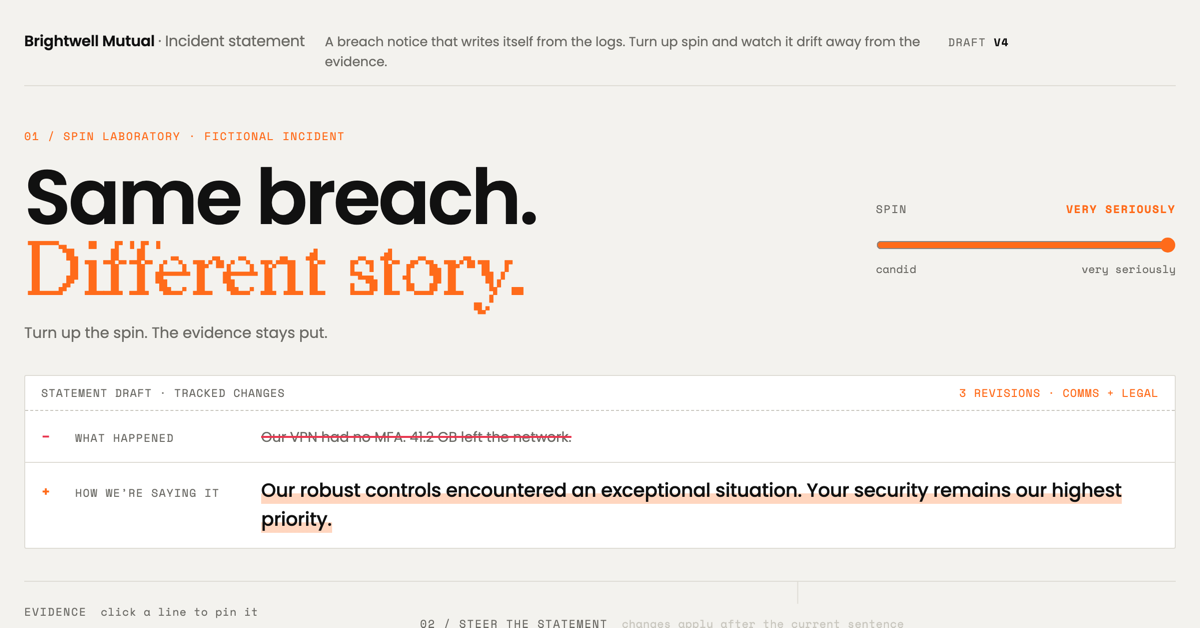
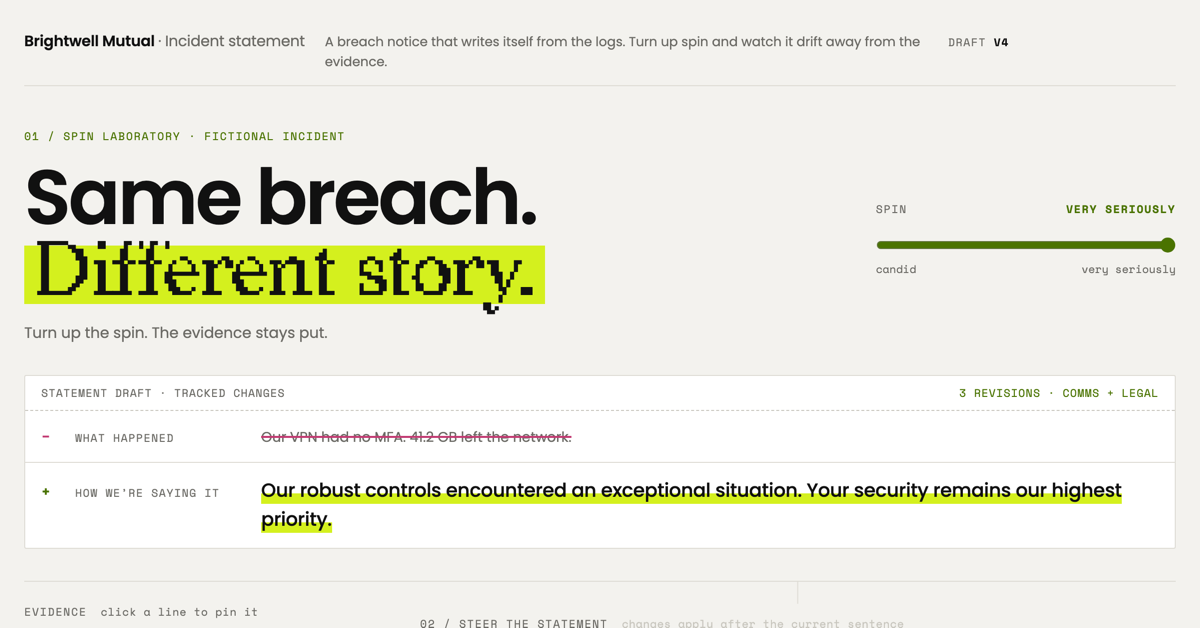
Switch accent to lime and contradicted to dusty rose
Lime #d4f01e is used as fills (headline band, spin highlight, primary
button, dial beads), with olive #4a7300 for text and lines. Contradicted
claims move from crimson to rose #c23a72 with a soft #f7c6da highlight.
README images and wording refreshed.

diff --git a/index.html b/index.html
@@ -30,8 +30,10 @@
     --dim: #6c6b66;
     --faint: #c9c7bf;
     --thread: #4a4a4a;
-    --steer: #ff6b1a;
-    --alert: #e8364f;
+    --steer: #4a7300;
+    --lime: #d4f01e;
+    --alert: #c23a72;
+    --alert-soft: #f7c6da;
     --mono: 'Space Mono', ui-monospace, SFMono-Regular, Menlo, Consolas, monospace;
     --label: 'Poppins', system-ui, sans-serif;
     color-scheme: light;
@@ -91,13 +93,13 @@
   .w.ghost { color: var(--faint); }
   .k-sup { text-decoration: underline dotted var(--dim); text-underline-offset: 4px; }
   .k-uns { text-decoration: underline dashed var(--alert); text-underline-offset: 4px; }
-  .k-con { color: var(--alert); text-decoration: underline solid var(--alert); text-underline-offset: 4px; }
+  .k-con { color: var(--fg); background: linear-gradient(transparent 58%, var(--alert-soft) 58%); -webkit-box-decoration-break: clone; box-decoration-break: clone; text-decoration: underline solid var(--alert); text-underline-offset: 4px; }
   .ghost .k-sup, .ghost .k-uns, .ghost .k-con { text-decoration: none; color: inherit; }
   .ret { display: inline-block; width: 1px; height: 1px; vertical-align: middle; margin-left: 6px; }
   .mark { display: flex; flex-wrap: wrap; gap: 4px 10px; align-items: baseline; font-family: var(--label); font-weight: 600; font-size: 10px; letter-spacing: .1em; text-transform: uppercase; min-width: 0; }
   .mark em { font-style: normal; color: var(--alert); }
   .tag { color: var(--steer); white-space: nowrap; letter-spacing: .04em; text-transform: none; font-family: var(--mono); font-size: 10.5px; }
-  .tag::before { content: ''; display: inline-block; width: 6px; height: 6px; border-radius: 50%; background: var(--steer); margin-right: 5px; vertical-align: 1px; }
+  .tag::before { content: ''; display: inline-block; width: 6px; height: 6px; border-radius: 50%; background: var(--lime); box-shadow: 0 0 0 1px var(--steer); margin-right: 5px; vertical-align: 1px; }
 
   /* threads */
   #threads { position: absolute; inset: 0; width: 100%; height: 100%; pointer-events: none; overflow: visible; }
@@ -122,7 +124,7 @@
   .dial .track { fill: none; stroke: var(--faint); stroke-width: 1.5; }
   .dial .fill { fill: none; stroke: var(--steer); stroke-width: 2.5; }
   .dial .tick { stroke: var(--dim); stroke-width: 1; }
-  .dial .bead { fill: var(--steer); }
+  .dial .bead { fill: var(--lime); stroke: var(--fg); stroke-width: 1.5; }
   .dial .end { font-family: var(--mono); font-size: 10px; fill: var(--dim); }
   .dial .out { font-family: var(--label); font-size: 13px; color: var(--dim); margin-top: 2px; font-variant-numeric: tabular-nums; }
   .dial .out b { color: var(--fg); font-weight: 600; }
@@ -136,7 +138,7 @@
   .btn { all: unset; cursor: pointer; border: 1px solid var(--faint); border-radius: 999px; padding: 5px 14px; font-family: var(--label); font-weight: 600; letter-spacing: .01em; font-size: 12px; color: var(--fg); }
   .btn::first-letter { text-transform: uppercase; }
   .btn { display: inline-block; }
-  .btn.primary { background: var(--fg); border-color: var(--fg); color: var(--bg); }
+  .btn.primary { background: var(--lime); border-color: var(--fg); color: var(--fg); }
   .btn.primary:hover { border-color: var(--fg); }
   .btn:hover { border-color: var(--dim); }
   .btn:focus-visible { outline: 1px solid var(--steer); }
@@ -174,7 +176,7 @@
   .lab { padding: 40px 0 32px; display:grid; grid-template-columns: 1fr 300px; gap: 22px 48px; border-bottom:1px solid var(--rule); }
   .lab > div { min-width:0; }
   .lab h1 { margin:14px 0 12px; font:600 clamp(40px, 6.4vw, 84px)/.98 var(--label); letter-spacing:-.035em; }
-  .lab h1 .spun { display:block; font-family:'Redaction 50', Georgia, serif; font-weight:400; letter-spacing:-.01em; color:var(--steer); }
+  .lab h1 .spun { display:block; font-family:'Redaction 50', Georgia, serif; font-weight:400; letter-spacing:-.01em; color:var(--fg); width:fit-content; padding:0 .12em; background:linear-gradient(transparent 14%, var(--lime) 14%, var(--lime) 92%, transparent 92%); -webkit-box-decoration-break:clone; box-decoration-break:clone; }
   .lab p { margin:8px 0; color:var(--dim); font-family:var(--label); font-size:15px; }
   .eyebrow { font-family:var(--mono); font-size:11px; color:var(--steer); text-transform:uppercase; letter-spacing:.1em; }
   .lab-control { align-self:center; } .lab-control label { display:flex; justify-content:space-between; font-size:11px; letter-spacing:.1em; text-transform:uppercase; color:var(--dim); }
@@ -193,7 +195,7 @@
   .redline.edited .rl-del p { text-decoration:line-through; text-decoration-color:var(--alert); text-decoration-thickness:1.5px; }
   .redline .rl-ins p { min-height:28px; font-size:19px; font-weight:500; letter-spacing:-.01em; color:var(--fg); }
   .redline.edited .rl-ins .rl-g { color:var(--steer); }
-  .redline.edited #spinPreview { background:linear-gradient(transparent 62%, rgba(255,107,26,.28) 62%); -webkit-box-decoration-break:clone; box-decoration-break:clone; }
+  .redline.edited #spinPreview { background:linear-gradient(transparent 62%, var(--lime) 62%); -webkit-box-decoration-break:clone; box-decoration-break:clone; }
   .dials-wrap { position:sticky; top:0; z-index:3; background:var(--bg); margin:0 0 20px; padding:12px 0; border-top:0; border-bottom:1px solid var(--rule); }
   .dials { gap:12px; grid-template-columns:repeat(4,minmax(0,1fr)); } .dial .out { font-size:10px; }
   .report-tools { display:flex; gap:12px; justify-content:space-between; align-items:center; margin:16px 0; color:var(--dim); font-family:var(--label); font-size:12px; }
@@ -201,7 +203,7 @@
   .pin-notice { border-color:var(--steer); color:var(--steer); font-size:12px; }
   .inspector { font-family:var(--label); } .inspector .btn { float:right; } .claim-source { padding:8px 0; color:var(--dim); font-size:11px; border-top:1px solid var(--rule); }
   .comparison { max-height:260px; overflow:auto; } .k-mis { color:var(--steer); text-decoration:underline wavy; text-underline-offset:4px; }
-  [data-claim] { cursor:pointer; } [data-claim]:hover { background:rgba(255,107,26,.12); }
+  [data-claim] { cursor:pointer; } [data-claim]:hover { background:rgba(212,240,30,.35); }
   .ghost .k-mis { color:inherit; text-decoration:none; } .mark .misleading { color:var(--steer); }
   .ln { grid-template-columns:20px 30px minmax(0,1fr) 90px; gap:8px; } .bars i { width:4px; }
   .rail h2 span { color:var(--dim); } .doc { padding-bottom:40px; }

diff --git a/README.md b/README.md
@@ -4,15 +4,15 @@
 
 **▶ Try it: [thesefa.github.io/breach-post-mortem](https://thesefa.github.io/breach-post-mortem/)** (best on a desktop, works on a phone)
 
-![The spin laboratory at candid: "Same breach." in black, "Different story." in orange pixel type, and the statement draft showing no edits yet](docs/hero.png)
+![The spin laboratory at candid: "Same breach." in black, "Different story." in Redaction type, and the statement draft showing no edits yet](docs/hero.png)
 
-![The statement at maximum spin: claims stamped CONTRADICTED, red threads running back to the log lines they contradict](docs/preview.png)
+![The statement at maximum spin: claims stamped CONTRADICTED, rose threads running back to the log lines they contradict](docs/preview.png)
 
 Every breach notice says the company "takes your security very seriously." This one shows its working. As the statement writes itself, every claim is wired to the log lines that back it up, or to the ones that contradict it.
 
 - **Grey thread:** the claim is supported by evidence.
-- **Red thread:** the evidence says otherwise. The claim is stamped CONTRADICTED.
-- **Dangling red ╳:** nothing backs the claim at all. It's stamped UNSUPPORTED.
+- **Rose thread:** the evidence says otherwise. The claim is stamped CONTRADICTED.
+- **Dangling rose ╳:** nothing backs the claim at all. It's stamped UNSUPPORTED.
 
 ## Updated interaction
 

diff --git a/docs/superpowers/specs/2026-11-18-halftone-restyle-design.md b/docs/superpowers/specs/2026-11-18-halftone-restyle-design.md
@@ -47,3 +47,7 @@ After seeing the dot headline live, Sefa asked for a cleaner look and chose from
 - Accent orange `#ff6b1a`; contradicted moves to crimson `#e8364f` so the two never read as one signal.
 - The "What happened / How we're saying it" box becomes a tracked-changes redline: truth on a − line (struck through once spin > 0), spin on a + line with an orange marker, header counting revisions. Replaces the left accent strip.
 - Pill buttons, Pause filled as the primary action.
+
+## Revision 2 (same day): lime and rose
+- Accent moves from orange to lime `#d4f01e`, used as fills (headline highlighter band, spin highlight, primary button, dial beads). Lime is too pale for text on the light background, so text and lines use olive `#4a7300` (`--steer`).
+- Contradicted moves from crimson to dusty rose: `#c23a72` for threads, labels and underlines (`--alert`), plus a soft `#f7c6da` highlight behind contradicted phrases (`--alert-soft`), which now render in body text colour. Periwinkle was rejected because Mistral claims are already purple.
